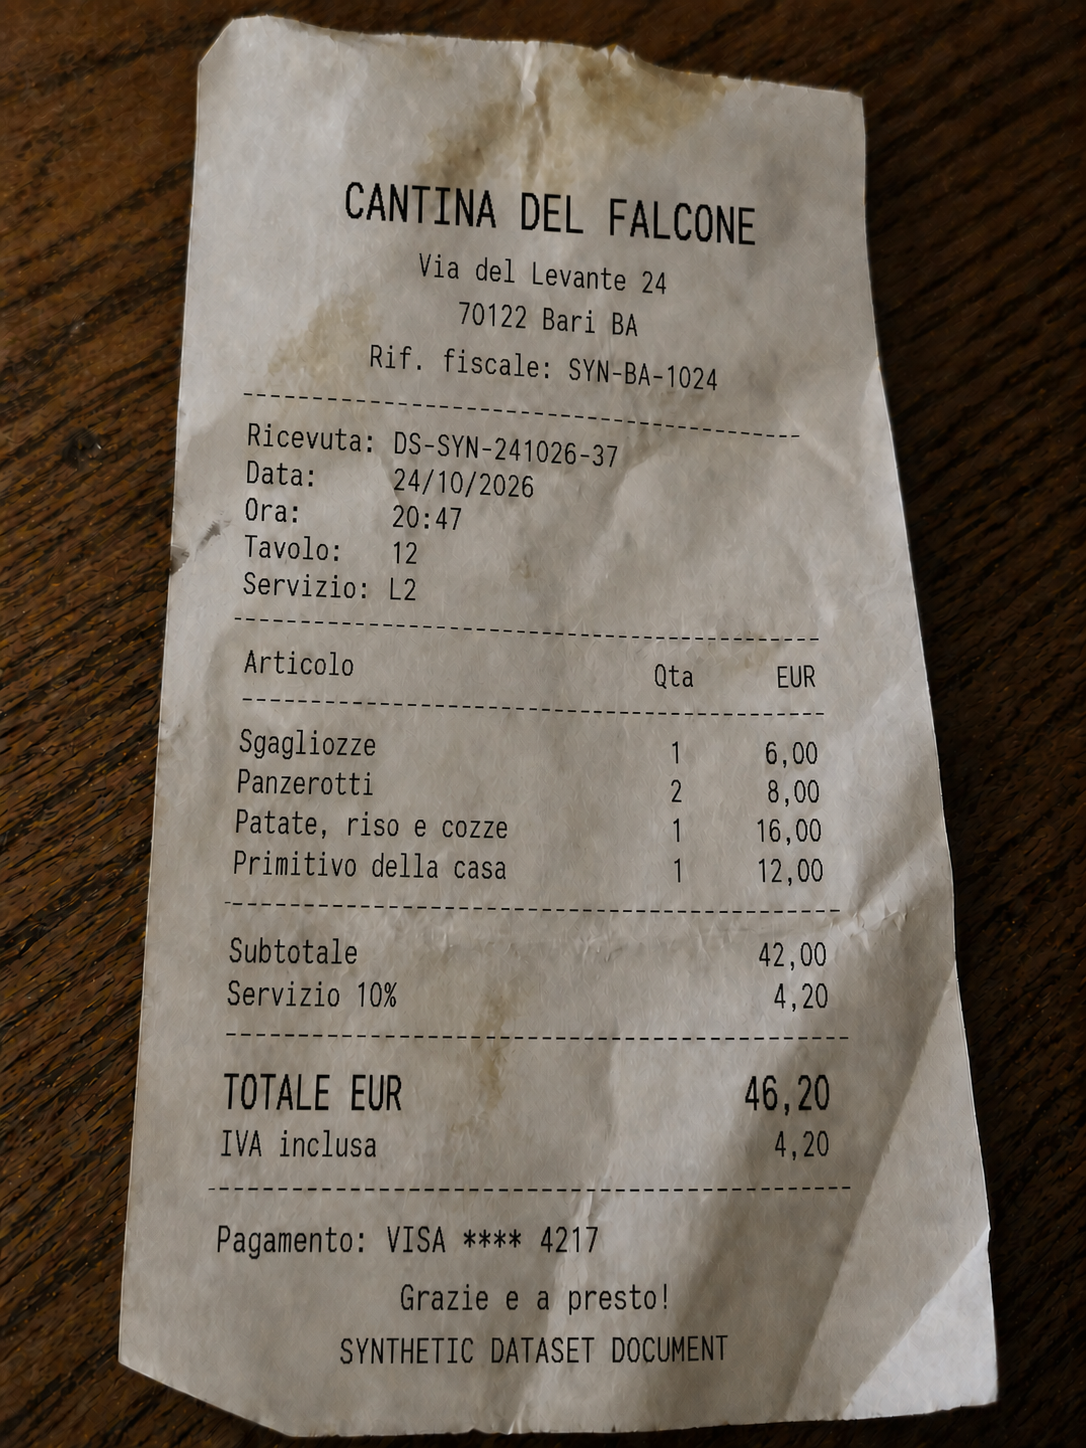
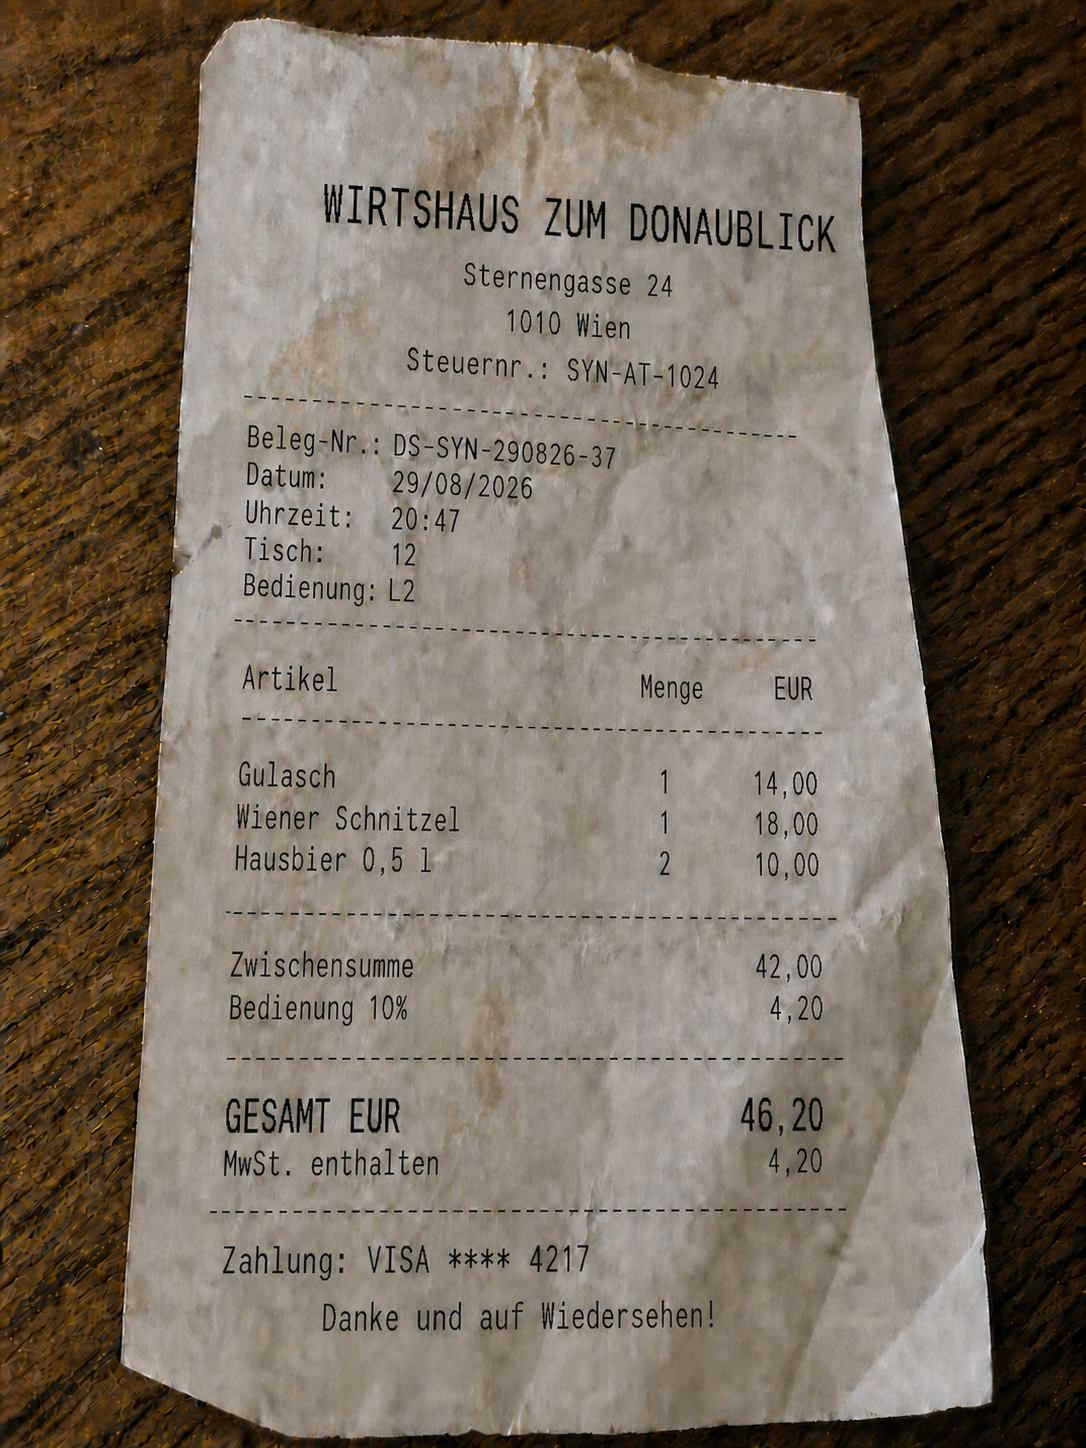
Refactor Part 02 and update flight and hotel documents

diff --git a/exercises/part_02/03_mcp_document_web_agent.py b/exercises/part_02/03_mcp_document_web_agent.py
@@ -18,11 +18,12 @@ MCP_SERVER_URL = "http://localhost:8001/mcp"
 
 agent = Agent(
     model=get_vllm_model(),
-    tools=[
-        list_my_available_documents,
-        extract_text_from_md_or_txt_file,
-        extract_text_from_image_file,
-    ],
+    # EXERCISE 1 - Document tools:
+    # Add the document tools to the agent so it can use them
+    # to answer questions about the workshop documents.
+    # They are defined in tutorial_ICDAR.utils.document_tools (see imports above).
+    # Tip: Add the tools directly as a list of python functions.
+    tools=[...],
     instructions=(
         "You are a helpful document assistant. Decide which tools are needed "
         "for the user's question. First check whether an available document is "
@@ -40,7 +41,9 @@ agent = Agent(
 )
 
 
-@agent.tool_plain
+# EXERCISE 2 - Current time tool:
+# Register this function as a plain agent tool.
+...
 def get_current_time() -> str:
     """Get the current local date and time."""
     logger.info("Agent is using the tool to get the current local time.")
@@ -48,7 +51,7 @@ def get_current_time() -> str:
 
 
 if __name__ == "__main__":
-    # EXERCISE 1 - Start this agent and ask it questions that require using the local document tools,
+    # EXERCISE 3 - Start this agent and ask it questions that require using the local document tools,
     # MCP retrieval, web search, and the current time tool to see how it uses all the capabilities
     # together.
     app = agent.to_web()

diff --git a/exercises/part_01/01_entry_point.py b/exercises/part_01/01_entry_point.py
@@ -9,8 +9,8 @@ from pydantic_ai import Agent, ModelSettings
 from pydantic_ai.models.openai import OpenAIChatModel
 from pydantic_ai.providers.openai import OpenAIProvider
 
-DEFAULT_VLLM_MODEL = "qwen3.5:27b"
-DEFAULT_VLLM_BASE_URL = "https://litellm.kube-ext.isc.heia-fr.ch/v1"
+DEFAULT_VLLM_MODEL = "Qwen/Qwen3.8-27B-FP8"
+DEFAULT_VLLM_BASE_URL = "http://160.98.250.21:8000/v1"
 
 
 def get_vllm_model(
@@ -37,7 +37,7 @@ agent = Agent(
 if __name__ == "__main__":
     start_time = time.perf_counter()
 
-    result = agent.run_sync("What is the capital of Italy?")
+    result = agent.run_sync("What is the capital of Austria?")
 
     end_time = time.perf_counter()
     output_tokens = result.usage().output_tokens

diff --git a/exercises/part_02/02b_mcp_rag_agent.py b/exercises/part_02/02b_mcp_rag_agent.py
@@ -8,7 +8,7 @@ from tutorial_ICDAR.utils.pydantic_utils import get_vllm_model
 MCP_SERVER_URL = "http://localhost:8001/mcp"
 
 # EXERCISE 1 - Check the FastMCPToolset documentation and initialize
-# the toolset to connect to part_03/01_mcp_rag_server.py.
+# the toolset to connect to part_02/02a_mcp_rag_server.py.
 # Link to documentation: https://pydantic.dev/docs/ai/mcp/fastmcp-client/
 toolset = ...
 

diff --git a/exercises/part_02/02a_mcp_rag_server.py b/exercises/part_02/02a_mcp_rag_server.py
@@ -34,6 +34,6 @@ def search_relevant_context_from_HAL_9000_policy(question: str) -> str:
 
 if __name__ == "__main__":
     # EXERCISE 2 - RAG Server:
-    # Start this RAG server and go to part_03/02_simple_mcp_rag_agent.py
+    # Start this RAG server and go to part_02/02b_mcp_rag_agent.py
     # to connect the agent to this mcp server for RAG retrieval.
     mcp.run(transport="streamable-http")

diff --git a/solutions/part_01/01_entry_point.py b/solutions/part_01/01_entry_point.py
@@ -37,7 +37,7 @@ agent = Agent(
 if __name__ == "__main__":
     start_time = time.perf_counter()
 
-    result = agent.run_sync("What is the capital of Italy?")
+    result = agent.run_sync("What is the capital of Austria?")
 
     end_time = time.perf_counter()
     output_tokens = result.usage().output_tokens

diff --git a/src/tutorial_ICDAR/settings.py b/src/tutorial_ICDAR/settings.py
@@ -1,2 +1,2 @@
-DEFAULT_VLLM_MODEL = "qwen3.5:27b"
-DEFAULT_VLLM_BASE_URL = "https://litellm.kube-ext.isc.heia-fr.ch/v1"
+DEFAULT_VLLM_MODEL = "Qwen/Qwen3.8-27B-FP8"
+DEFAULT_VLLM_BASE_URL = "http://160.98.250.21:8000/v1"
